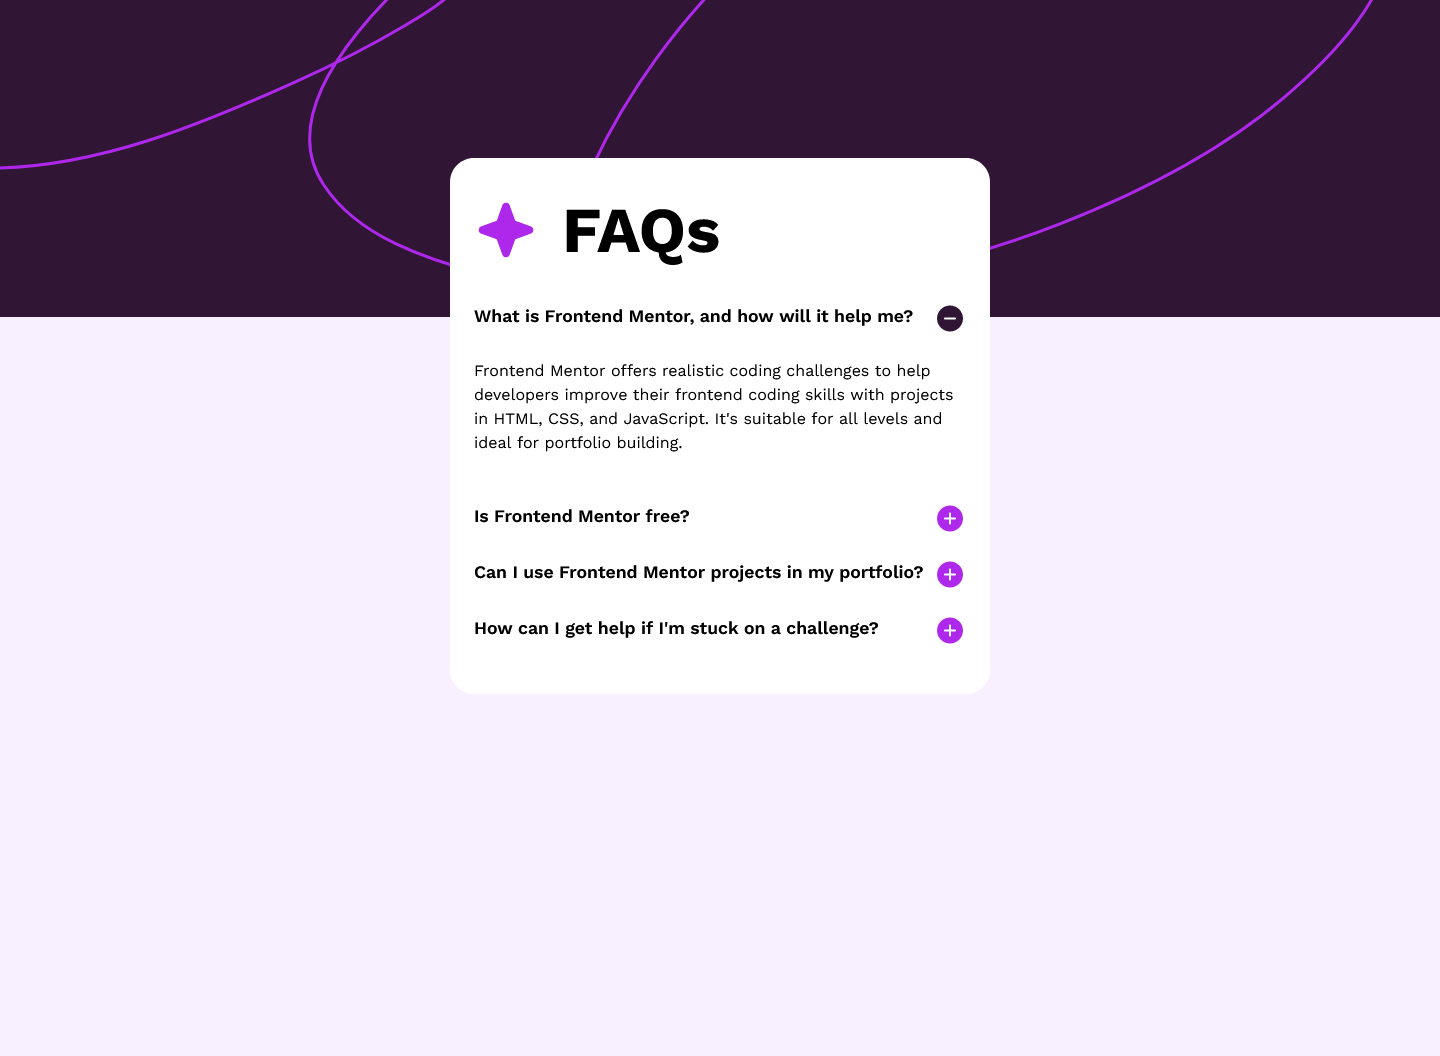
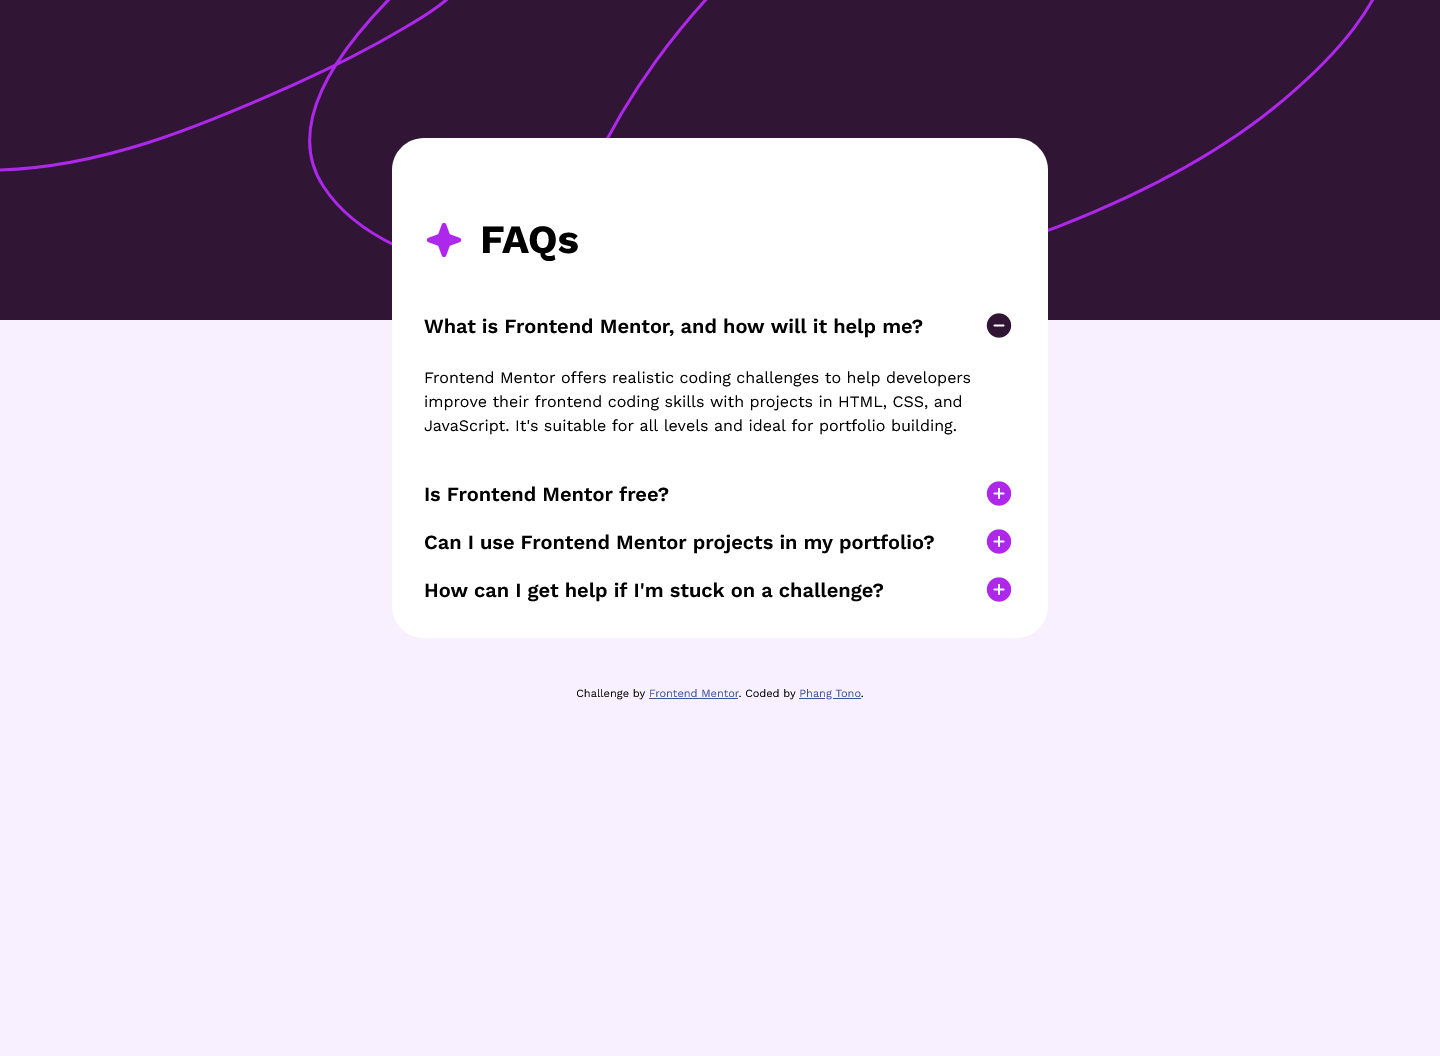
readme update

diff --git a/style.css b/style.css
@@ -47,6 +47,18 @@ main{
     grid-row: 2 / 4;
 }
 
+footer{
+    font-size: 68.75%; 
+    text-align: center;
+    padding: 1rem;
+    grid-column: 2 / 3;
+    grid-row: -1 / span 1;
+}
+
+footer a{
+    color: hsl(228, 45%, 44%);
+}
+
 article{
     --gap: 2rem;
     background-color: var(--clr-white);
@@ -124,14 +136,3 @@ article{
     display: block;
 }
 
-footer{
-    font-size: 68.75%; 
-    text-align: center;
-    padding: 1rem;
-    grid-column: 2 / 3;
-    grid-row: -1 / span 1;
-}
-
-footer a{
-    color: hsl(228, 45%, 44%);
-}

diff --git a/README.md b/README.md
@@ -30,8 +30,8 @@ Users should be able to:
 
 ### Links
 
-- Solution URL: [faq-accordion-solution](https://github.com/phangtono/faq-accordion)
-- Live Site URL: [faq-accordion-live-site](https://poetic-croquembouche-e62d0a.netlify.app/)
+- Solution URL: [faq-accordion-solution](https://github.com/phangtono/phangtono-revision-faq-accordion)
+- Live Site URL: [faq-accordion-live-site](https://clinquant-monstera-75309e.netlify.app/)
 
 ## My process
 
@@ -42,70 +42,92 @@ Users should be able to:
 - CSS
 - Flexbox
 - Grid
+- pseudo-element :after
 
 ### What I learned
+Thank you for the valuable feedback from mentor @grace-snow (https://www.frontendmentor.io/profile/grace-snow). I've implemented some improvements based on the suggestions. 
 
-This script runs when the click event occurs, or when we press enter while the focus is on the link a href.
+If previously I used @import, this time I used the link tag in the html head. (for better performance).
 
-```js
-
-const listItems = document.querySelectorAll('#mylist li');
-
-listItems.forEach(item => {
-    item.addEventListener('click', function() {
-        listItems.forEach(li => {
-            li.classList.remove('checked');
-        });
-
-        this.classList.add('checked');
-    });
-});
-
+```html
+  <link rel="preconnect" href="https://fonts.googleapis.com">
+  <link rel="preconnect" href="https://fonts.gstatic.com" crossorigin>
+  <link href="https://fonts.googleapis.com/css2?family=Work+Sans:wght@400;600;700&display=swap" rel="stylesheet">
 ```
-To get the layout, I used a grid. and to make it responsive, I use minmax
+
+In this implementation, I use landmarks, empty string for alt on the decorative image. and use the picture tag for the background image. (for better performance)
+
+```html
+<header>
+    <picture>
+        <source media="(max-width:1440px)" srcset="assets/images/background-pattern-desktop.svg">
+        <source media="(max-width:810px)" srcset="assets/images/background-pattern-mobile.svg">
+        <img src="assets/images/background-pattern-desktop.svg">
+    </picture>
+</header>
+```
+
+For layout I still use a grid. the values in grid-template-columns, grid-template-rows are slightly different from before, resulting in a smoother response.
+
 ```css
-.wrapper{
-    display: grid;
-    grid-template-columns: minmax(1rem,auto) minmax(340px,540px) minmax(1rem,auto);
-    grid-template-rows: 15% 15% min-content auto;
+body {
+    background-color: var(--clr-light-pink);
+    min-height: 100vh;
     height: 100%;
+    display: grid;
+    grid-template-columns: 1fr minmax(auto,720px) 1fr;
+    grid-template-rows: 10vh 15vh min-content;
 }
-.image {
+
+header{
     background-color: var(--clr-dark-purple);
-    background-image: url('assets/images/background-pattern-desktop.svg');
-    background-position: center center;
-    background-repeat: no-repeat;
-    background-size: cover;
     grid-column: 1 / -1;
     grid-row: 1 / 3;
 }
-.faq{
-    --gap : 1.5rem;
 
-    background-color: var(--clr-white);
+main{
     grid-column: 2 / 3;
     grid-row: 2 / 4;
+}
 
-    border-radius: var(--gap);
-    padding: var(--gap);
-
+footer{
+    font-size: 68.75%; 
+    text-align: center;
+    padding: 1rem;
+    grid-column: 2 / 3;
+    grid-row: -1 / span 1;
 }
 ```
-I use flexbox to get a layout like the design.
+
+What's interesting about this implementation? if previously I used an empty div (I also used the img tag), this time I used the :after pseudo-element, with the content property. the results are really cool.
+
 ```css
-.faq .title {
-    display: flex;
-    gap: var(--gap);
-    align-items: center;
-    justify-items: start;
-    font-weight: var(--fw--700);
-    font-size: var(--fs--700);
+.card-faq__ques::after{
+    width: 2rem;
+    height: 2rem;
+    content: url('assets/images/icon-plus.svg');
 }
+
+.show .card-faq__ques::after{
+    content: url('assets/images/icon-minus.svg');
+}
+```
+
+The following is a JavaScript script that has been adjusted to accommodate the HTML changes.
+
+```js
+document.addEventListener('DOMContentLoaded', function () {
+    const faqItems = document.querySelectorAll('.card-faq__ques-list-item');
+
+    faqItems.forEach(function (item) {
+        item.addEventListener('click', function () {
+            this.classList.toggle('show');
+
+        });
+    });
+});
 ```
 
 ## Author
 
 - Frontend Mentor - [@phangtono](https://www.frontendmentor.io/profile/phangtono)
-"# faq-accordion" 
-"# faq-accordion-rev1" 
-"# phangtono-revision-faq-accordion" 
